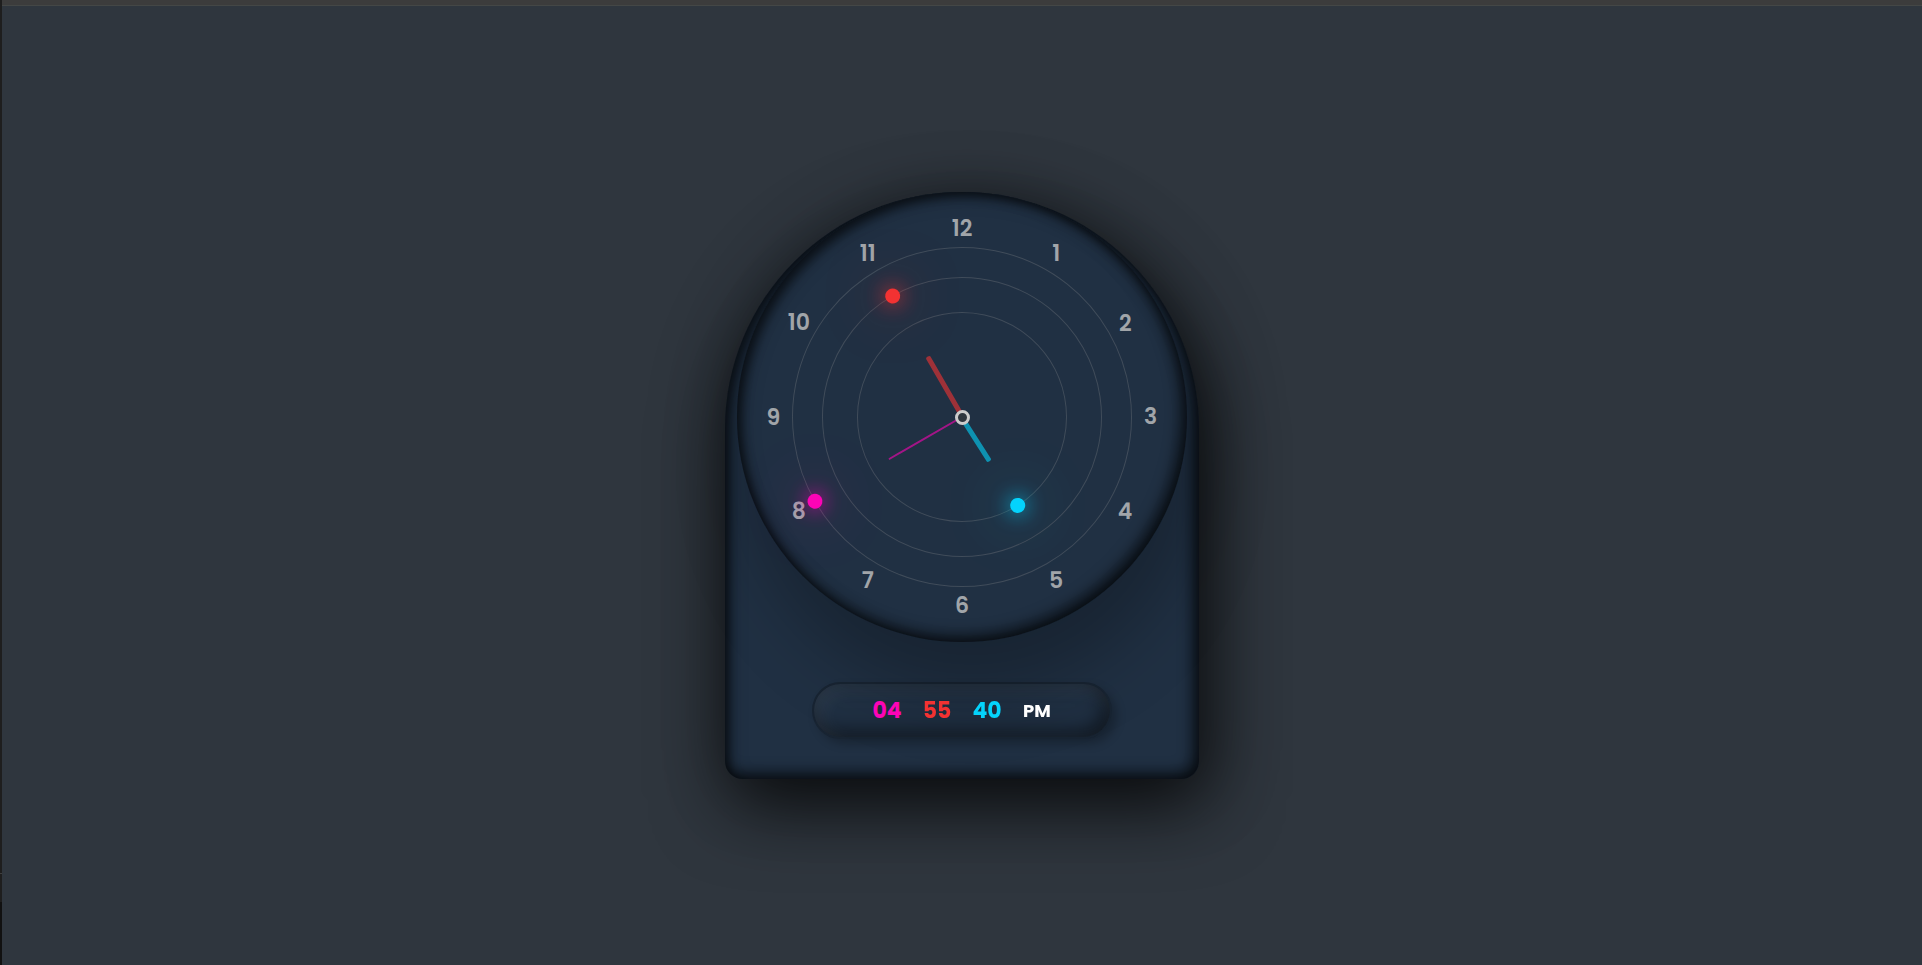
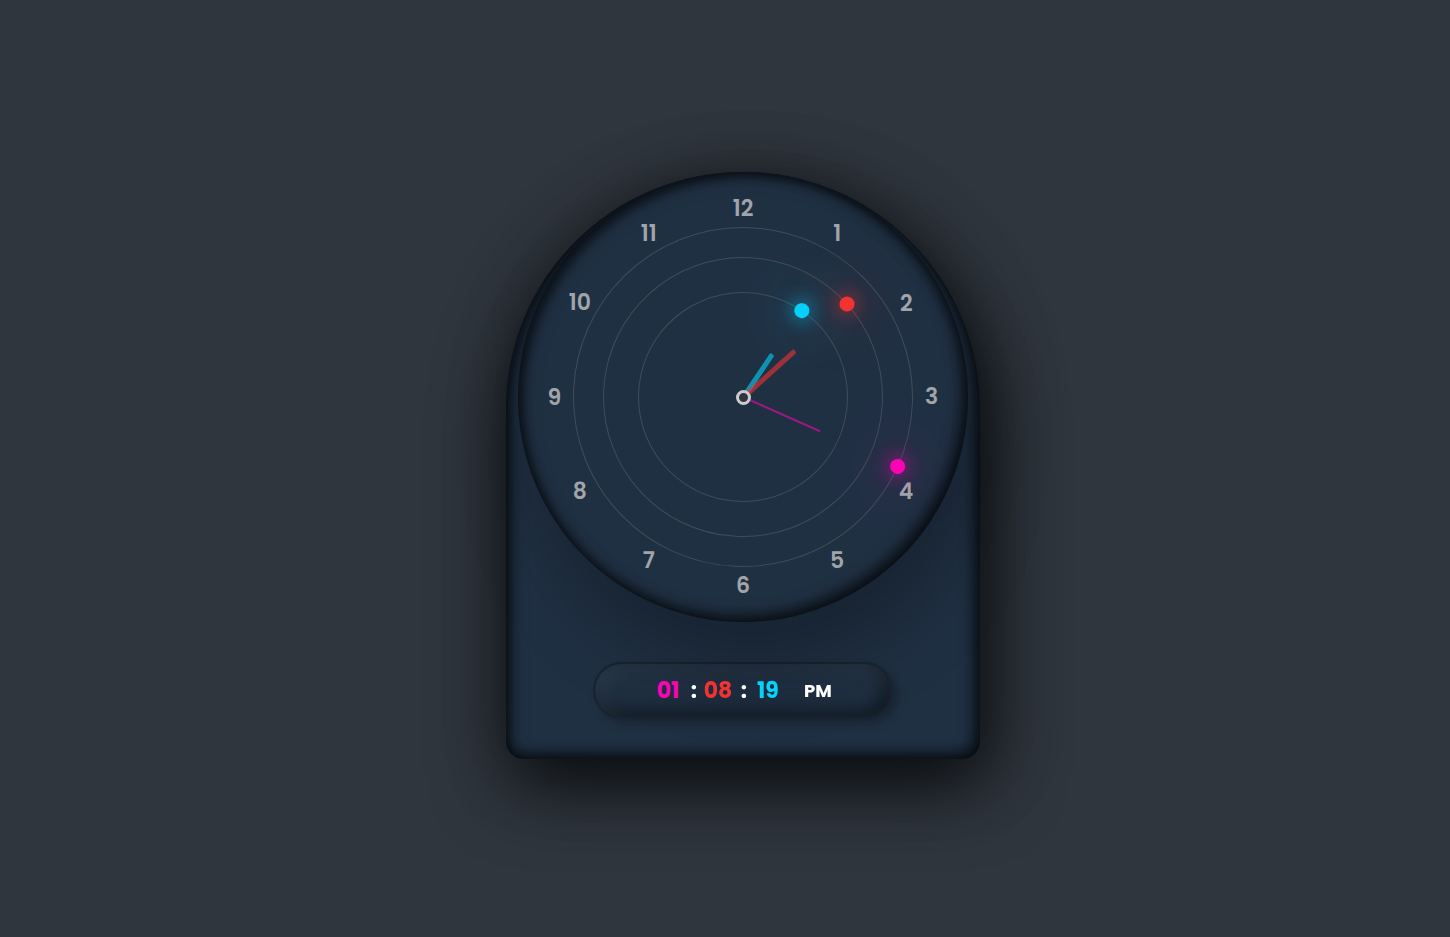
My Portfolio static Project List Add

diff --git a/src/components/Project.jsx b/src/components/Project.jsx
@@ -12,8 +12,11 @@ import AytorImg from "../assets/Project/Aytor.png";
 import JikerAppImg from "../assets/Project/Jiker-app.png";
 import RestaurantImg from "../assets/Project/Restaurant.png";
 import CompanyImg from "../assets/Project/Company.png";
+import ClockImg from "../assets/Project/Clock.png";
+import CalculatorImg from "../assets/Project/Calculator.png";
 
 import "../styles/Project.css";
+import { image } from "framer-motion/m";
 
 
 const projectsData = {
@@ -27,7 +30,9 @@ const projectsData = {
         { title: "Full Stack App", tags: ["React", "Node.js", "MongoDB"], desc: "Demo full stack project" },
     ],
     static: [
-        { title: "Static Portfolio", tags: ["HTML", "CSS"], desc: "Simple static portfolio" },
+        { gitlink:"https://github.com/rakibhosain2302/Analog_and_Digital_Clock",liveLink:"https://rakibhosain2302.github.io/Analog_and_Digital_Clock/", image: ClockImg, title: "Analog & Digital Clock", tags: ["HTML", "CSS", "JavaScript"], desc: "A simple and responsive Analog & Digital Clock built using HTML, CSS, and JavaScript, displaying real-time updates with both classic analog design and modern digital format." },
+        { gitlink:"https://github.com/rakibhosain2302/JS-Simple-Calculators",liveLink:"https://rakibhosain2302.github.io/JS-Simple-Calculators/", image: CalculatorImg, title: "Simple Scientific Calculator", tags: ["HTML", "CSS", "JavaScript"], desc: "A modern and responsive Scientific Calculator developed using HTML, CSS, and JavaScript, supporting advanced mathematical operations such as trigonometric functions, logarithms, factorials, powers, and real-time expression evaluation with an intuitive user interface." },
+
     ],
 };
 
